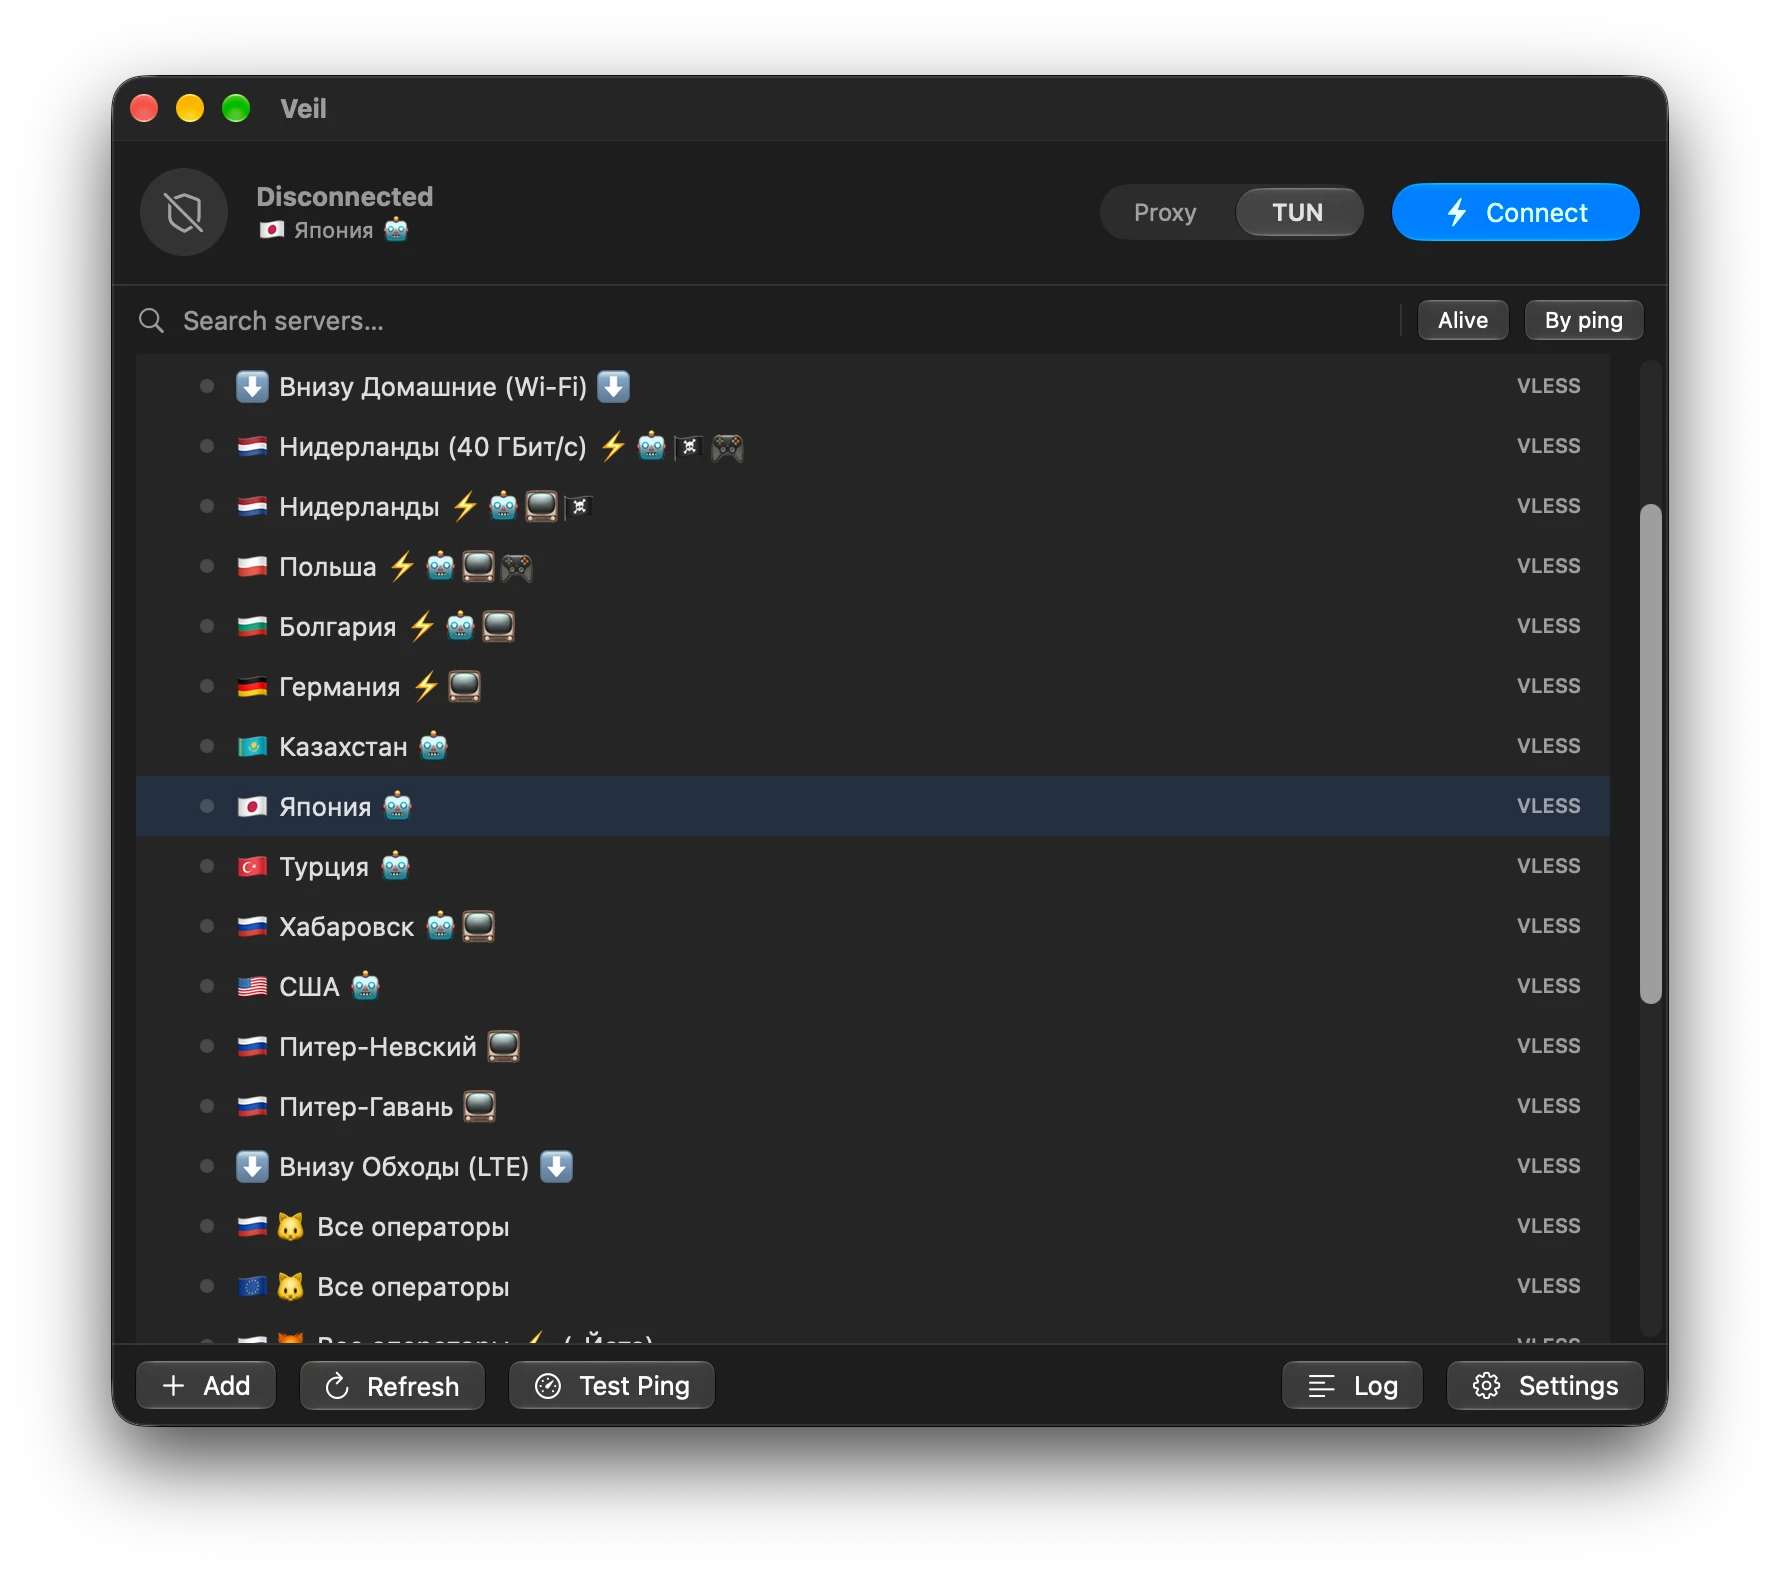
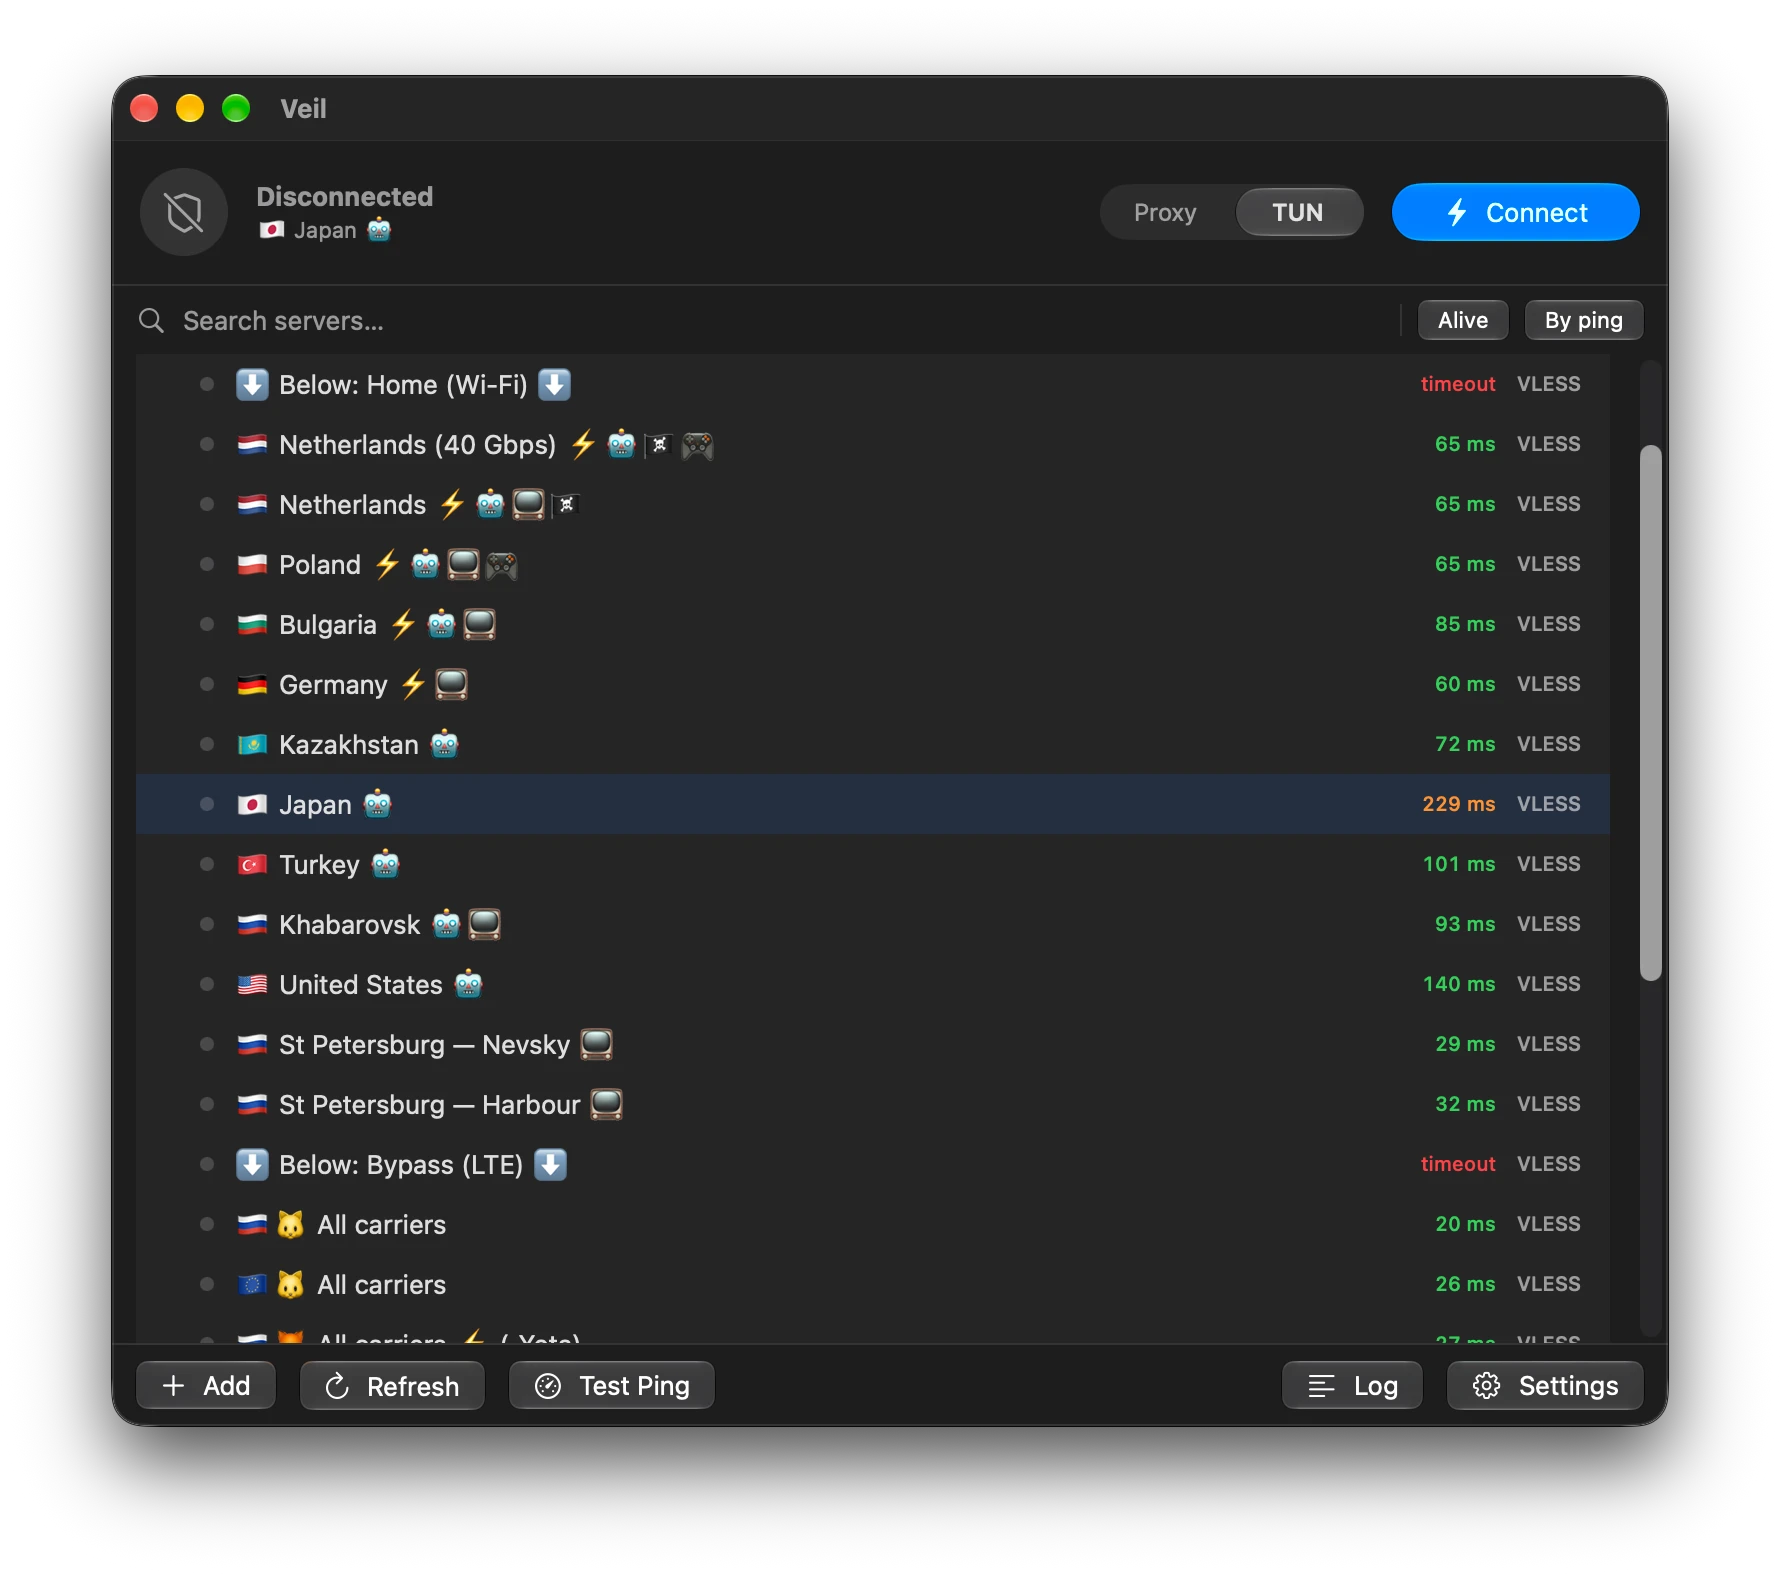
Show an English window in the English README (#15)
The screenshot in README.md was taken from a Russian subscription, so an
English-speaking reader met a list of Cyrillic server names under English
prose. The English README now carries a window in English, and the Russian
one keeps the original as screenshot.ru.png.

Nothing in the app changed: the names come from whatever the panel sent, and
the shot was taken against a local copy of the list.

diff --git a/README.ru.md b/README.ru.md
@@ -29,7 +29,7 @@
 </p>
 
 <p align="center">
-  <img src=".github/assets/screenshot.png" width="720" alt="Главное окно Veil">
+  <img src=".github/assets/screenshot.ru.png" width="720" alt="Главное окно Veil">
 </p>
 
 ---
